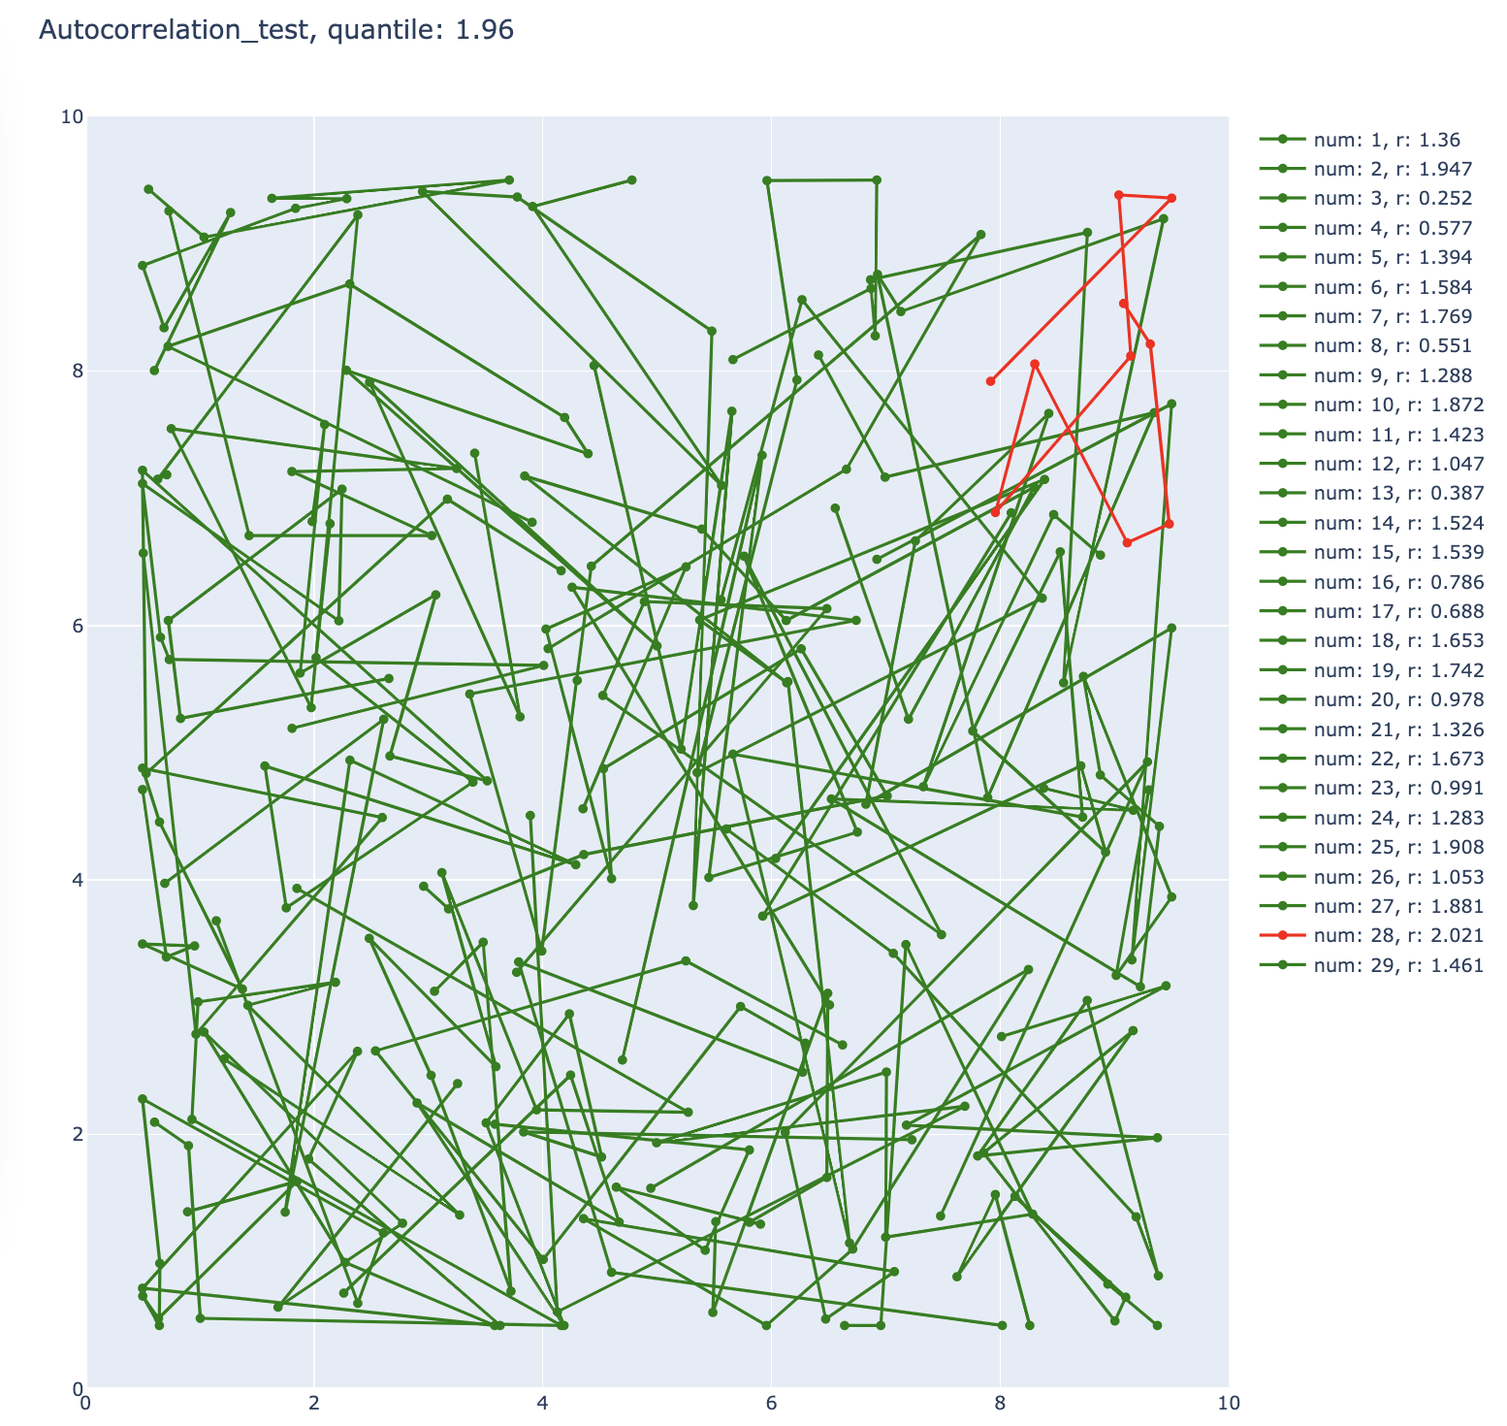
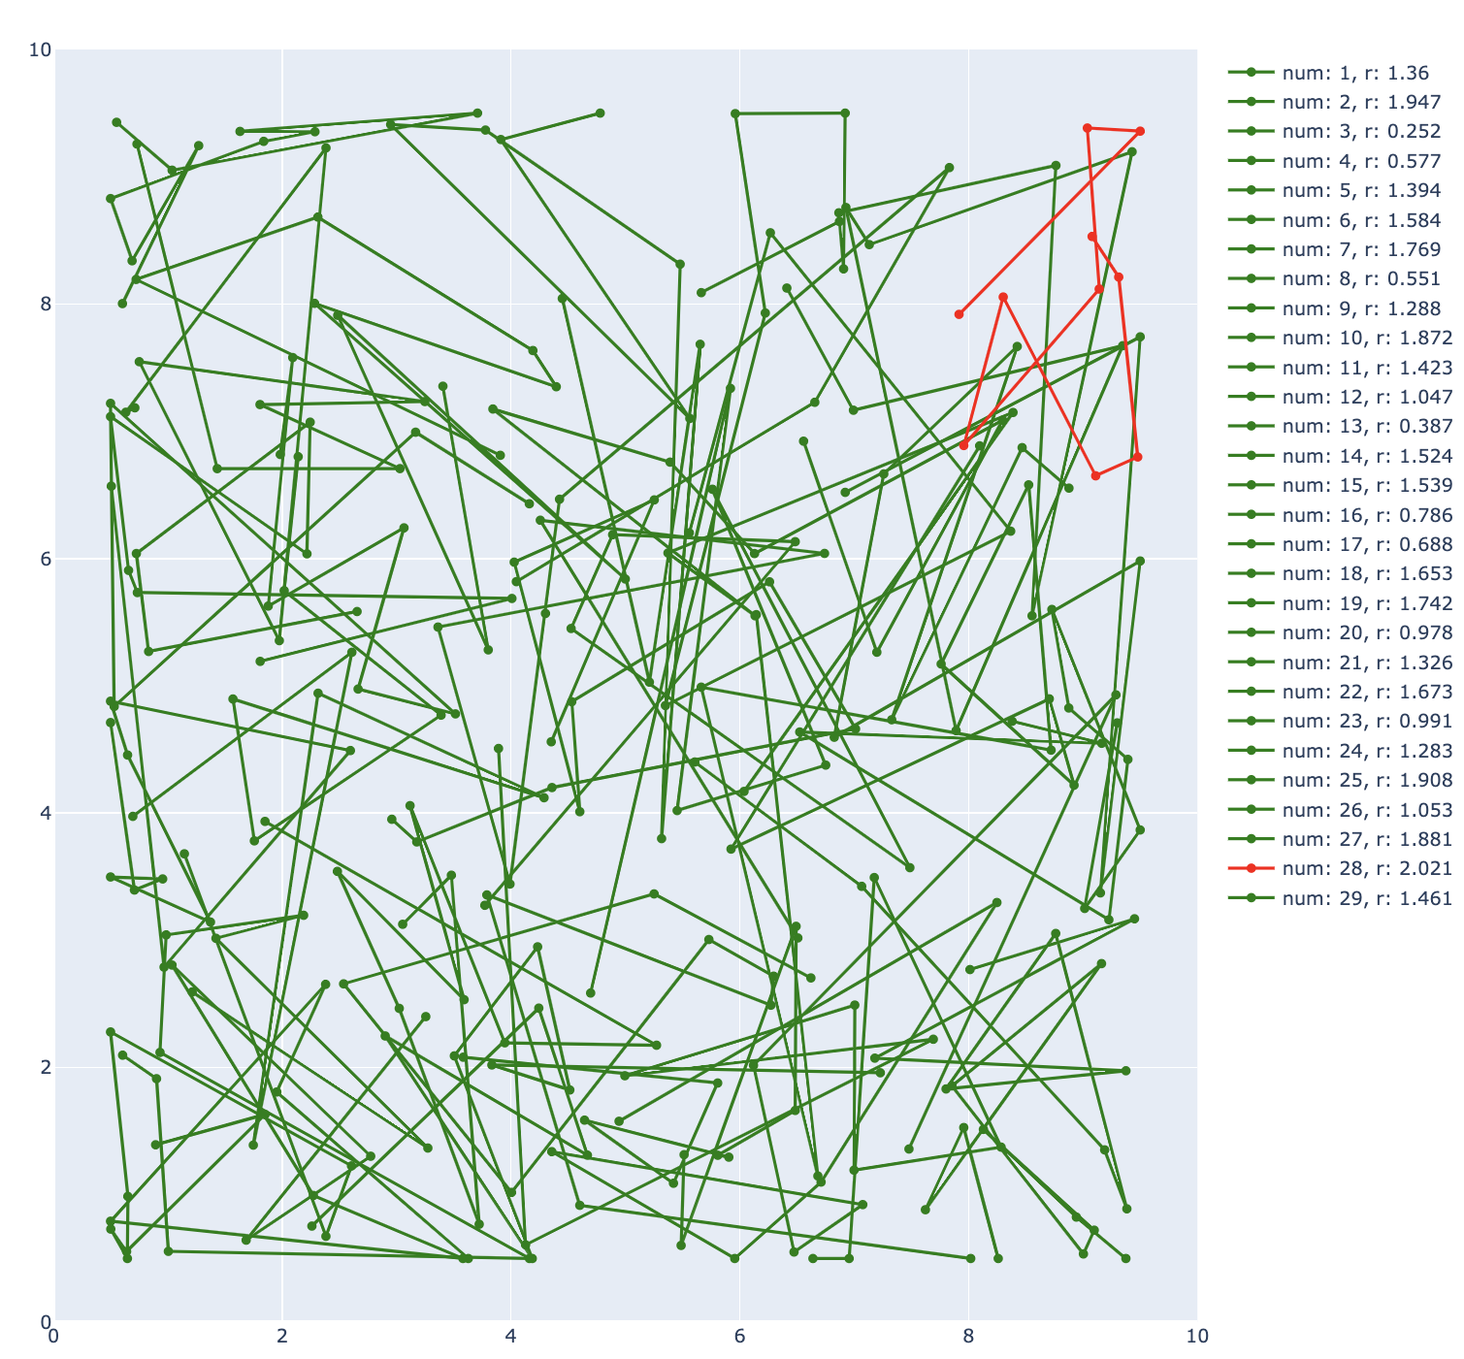
Improve project with analysis

diff --git a/parts/sections/section2/subsection2.tex b/parts/sections/section2/subsection2.tex
@@ -16,14 +16,18 @@ r_{1, n}^{*}=\frac{\left|r_{1, n}-M\left(r_{1, n}\right)\right|}{\sqrt{D\left(r_
 $$ 
 Гипотеза о случайности отклоняется при $\left|r_{1, n}^{*}\right|>\boldsymbol{u}_{1-\frac{\alpha}{2}}$.
 
-В нашем случае можно проводить такую проверку между координатами расположения элементов.
+В нашем случае можно проводить такую проверку между координатами расположения элементов. Для этого рассмотрим критерий автокорреляции применимо к \textit{x} координате, а также к \textit{y} координате каждого из элементов. В результате если корреляции между конечными значениями координат \textit{x} и \textit{y} для каждой из частиц нет, то можно утверждать, что и корреляции между положением окружностей также нет.
 
 Результаты проверки критерием автокорреляции показали, что при одинаковом начальном расположении элементов в результате перемешивания, окружности оказываются в различных местах.
 
-Проводя эксперимент с определенным количеством окружностей и сохранив конечные положения каждой окружности в каждой генерации, можно провести тест автокорреляции. При значении квантиля стандартного нормального распределения $u_{1-\alpha/2}$, генерации случайных ансамблей с различным количеством окружностей (от $10$ до $70$) показало, что гипотеза о случайности не отклоняется. 
+Проводя эксперимент с определенным количеством окружностей и сохранив конечные положения каждой окружности в каждой генерации, можно провести тест автокорреляции. При значении квантиля стандартного нормального распределения $u_{1-\alpha/2}$, генерации случайных ансамблей с различным количеством окружностей (от $10$ до $70$) показало, что гипотеза о случайности не отклоняется c вероятностью в $0.95$. 
+
+Данный метод проверки позволяет сделать заключение о том, что при генерации случайных ансамблей частиц методом плотнейших упаковок с последующим перемешиванием элементов из одинаковой начальной конфигурации получать различные конечные формации ансамблей. 
+
+"Случайность" ансамбля также может повысить тот факт, что при проведении теста элементы специально индексировались в фиксированной последовательности. При настоящем исследовании генерирующихся кластеров такого можно не делать (то есть рассматривать все элементы как равные). 
 
 \newcommand{\imgsize}{6cm}
-\newcommand{\imgsubdir}{autocorrelation}
+\renewcommand{\imgsubdir}{autocorrelation}
 \begin{figure}[h!]
     \begin{subfigure}{0.49\textwidth}
         \centering
@@ -53,3 +57,49 @@ $$
     \label{fig:tight_packing}
 \end{figure}
 
+Для проверки как расположены элементы ансамбля проводится проверка на подчинение гипотезе о равномерном распределении элементов по каждой из осей. 
+
+Для того чтобы проверить гипотезу о равномерном распределении $X$,т.е. по закону: $$f(x) = \frac{1}{b-a}$$ в интервале $(a,b)$
+надо:
+\begin{enumerate}
+    \item 
+        Найдём дисперсию и выборочное среднее:
+        $$
+        \bar{x}=\frac{1}{n} \sum x_{i} n_{i}
+        $$
+        $$
+        D_{B}=\frac{1}{n} \sum\left(x_{i}-\bar{x}\right)^{2} n_{i}
+        $$
+    \item
+        Оценить параметры $a$ и $b$ - концы интервала, в котором наблюдались возможные значения $X$, по формулам (через знак $*$ обозначены оценки параметров) $$a^{*}=\bar{x}-\sqrt{3} \sigma$$
+        $$b^{*}=\bar{x}+\sqrt{3} \sigma$$
+    \item 
+        Найти плотность вероятности предполагаемого распределения 
+        $$f(x) = \frac{1}{b* - a*}$$
+    \item
+        Найти теоретические частоты:
+        $$
+        n_{1}^{\prime}=n \frac{1}{73,763}\left(x_{1}-a\right)
+        $$ 
+        $$
+        n_{i}^{\prime}=n \frac{1}{73,763}\left(x_{i+1}-x_{i}\right)
+        $$
+        $$
+        n_{s}^{\prime}=n \frac{1}{73,763}\left(b-x_{s}\right)
+        $$
+    \item
+        Сравнить эмпирические и теоретические частоты с помощью критерия Пирсона: 
+        $$
+        \chi^{2}=\sum \frac{\left(n_{i}-n_{i}^{\prime}\right)^{2}}{n_{i}^{\prime}}
+        $$
+        приняв число степеней свободы $k = s - 3$, где $s$ - число первоначальных интервалов выборки; если же было произведено объединение малочисленных частот, следовательно, и самих интервалов, то $s$ - число интервалов, оставшихся после объединения.
+\end{enumerate}
+
+В результате генерации и исследования ансамбля на равномерность распределения по пространству выявлено, что большинство генераций после перемешивания подходят под гипотезу равномерного распределения.
+
+\begin{figure}[h]
+    \centering
+    \includegraphics[width=\textwidth]{\imgdir/uniform.png}
+    \caption{Процент равномерных распределений среди генерации областей}
+    \label{fig:uniform}
+\end{figure}

diff --git a/parts/sections/section2/subsection3.tex b/parts/sections/section2/subsection3.tex
@@ -1,1 +1,30 @@
 \subsection{Тестирование производительности алгоритмов\label{tesing}}
+
+Проведём тестирование производительности некоторых алгоритмов генерации ансамблей. 
+
+Следующие параметры влияют на время генерации случайного ансамбля:
+\begin{enumerate}
+    \item 
+        Количество элементов
+    \item 
+        Начальная конфигурация элементов. В зависимости от того, как расположены элементы в начальном положении, меняется скорость генерации случайного ансамбля. Если генерация начинается с расположения элементов по узлам сетки, то скорость получения случайно распределенного ансамбля будет больше, чем если генерация начинается с формации плотнейшей упаковки. Данный аспект вызван тем, что генерация положений для плотнейшей упаковки сложнее чем для расположения в узлах сетки. Также стоит учесть, что при генерации из формации плотнейшей упаковки также добавляется шаг растягивания упаковки на всю ширину пространства.
+    \item 
+        Количество перемешиваний для достижения равномерного распределения (актуально для методов генерации начинающих с какой-либо определенной формации).
+    
+\end{enumerate}
+
+\renewcommand{\imgsubdir}{speed_analysis}
+\begin{figure}[h!]
+    \centering
+    \includegraphics{\imgdir/\imgsubdir/t_by_circle_count.png}
+    \caption{Зависимость времени генерации области от количества окружностей}
+    \label{fig:my_label}
+\end{figure}
+
+\begin{figure}[h]
+    \centering
+    \includegraphics{\imgdir/\imgsubdir/t_by_rho.png}
+    \caption{Зависимость времени генерации области от процента заполненности}
+    \label{fig:my_label}
+\end{figure}
+

diff --git a/parts/introduction.tex b/parts/introduction.tex
@@ -1,3 +1,7 @@
 \begin{center}
 \LARGE\bf{Введение}
 \end{center}
+
+Теория протекания или теория перколяции – раздел науки, изучающий образование связанных структурированных объектов в неупорядоченных неструктурированных средах. На основании теории перколяции возможно построить модели применимые как в математике, химии, биологии так и в физике. В математике теория перколяции описывается, опираясь на теорию графов, а в физических задачах данная теория применяется для изучения процессов, происходящих. в неоднородных средах со случайными, но фиксированными в пространстве и времени свойствами. К таким задачам относится задача эффективной электропроводимости вещества, состоящего из нескольких материалов. Также на данный момент ведутся исследования применения теории перколяции для управления потоками данных в информационных сетях на транспорте, в механике жидкостей и плазмы и так далее.
+
+В данной работе продемонстрирована реализация алгоритмов, позволяющих генерировать области с континуальным расположением элементов различной формы в двухмерной и трёхмерной области, а также задачи анализа данной области. Цель данной работы – создание библиотеки для современных языка программирования Python с большим спектром возможностей от задания количества элементов до процента заполненности этими элементами области.

diff --git a/parts/sections/section2/subsection1.tex b/parts/sections/section2/subsection1.tex
@@ -154,13 +154,17 @@
         \label{fig:tight_packing}
     \end{figure}
     На изображениях \ref{fig:tight_packing} можно увидеть, что при расположении элементов в порядке плотнейшей упаковки можно добиться большей плотности. При том-же размере пространства при помощи плотнейшей упаковки вместо 81 сфер можно расположить до 105. 
-    \begin{figure}[h!]
-        \centering
-        \includegraphics
-        [width=15cm,height=20cm]
-        {figures/\imgsubdir/block_scheme.png}
-        \caption{Блок-схема расположения основанного на сетке}
-        \label{fig:my_label}
-    \end{figure}
+
 \end{enumerate}
 
+В результате тестов на максимальную плотность упаковки, алгоритмы основывающиеся на плотнейшей упаковке оказываются лучшими, поэтому для трёхмерный объектов также выбран метод плотнейших упаковок.
+
+\newcommand{\imgsubdir}{tight_packing}
+\begin{figure}[h!]
+    \centering
+    \includegraphics
+    [width=15cm,height=20cm]
+    {figures/\imgsubdir/block_scheme.png}
+    \caption{Блок-схема расположения основанного на сетке}
+    \label{fig:my_label}
+\end{figure}

diff --git a/parts/title.tex b/parts/title.tex
@@ -22,14 +22,14 @@
 \large
 \begin{flushright}
 \textbf{Выполнил:}\\
-студент V курса \\
+студент V курса\\
 Запорожцев Александр Викторович\\
 
 \vspace{0.5cm}
 
 \textbf{Научный руководитель:}\\
 кандидат физико-математических наук, \\
-старший преподаватель Федотов Александр Сергеевич
+доцент Федотов Александр Сергеевич
 \end{flushright}
 \vspace{0.5cm}
 

diff --git a/parts/sections/section2/subsection4.tex b/parts/sections/section2/subsection4.tex
@@ -1,1 +1,2 @@
 \subsection{Оптимизация параметров алгоритмов}
+
